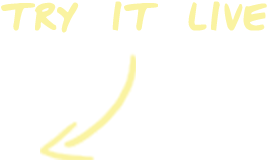
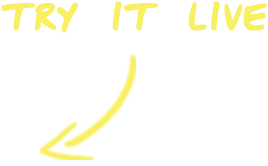
tweakz

diff --git a/index.html b/index.html
@@ -20,14 +20,14 @@
     <div class="hero-first pad center-xs start-md col-sm-12 col-md-6">
       <h1 id="logo"><a href="/">reapp</a></h1>
       <h2 class="hero-headline">Hybrid apps, fast</h2>
-      <p style="width:100%;">
-        Write once, run anywhere hybrid apps with React, Webpack and ES6.
+      <p>
+        Make beautiful hybrid apps that feel great with React, Webpack and ES6.
       </p>
 
       <div class="row justify-right">
         <div class="buttons">
           <a class="button prefer" href="/start.html"><span class="hide-xs">Get Started</span><span class="hide-sm">Start</span></a>
-          <a class="button secondary" href="https://github.com/reapp/reapp">Github</a>
+          <a class="github icon-mini" href="https://github.com/reapp/reapp">Github</a>
           <a class="twitter icon-mini hide-xs" href="https://twitter.com/reapp">Twitter</a>
         </div>
       </div>

diff --git a/pages/index.html b/pages/index.html
@@ -4,14 +4,14 @@
     <div class="hero-first pad center-xs start-md col-sm-12 col-md-6">
       <h1 id="logo"><a href="/">reapp</a></h1>
       <h2 class="hero-headline">Hybrid apps, fast</h2>
-      <p style="width:100%;">
-        Write once, run anywhere hybrid apps with React, Webpack and ES6.
+      <p>
+        Make beautiful hybrid apps that feel great with React, Webpack and ES6.
       </p>
 
       <div class="row justify-right">
         <div class="buttons">
           <a class="button prefer" href="/start.html"><span class="hide-xs">Get Started</span><span class="hide-sm">Start</span></a>
-          <a class="button secondary" href="https://github.com/reapp/reapp">Github</a>
+          <a class="github icon-mini" href="https://github.com/reapp/reapp">Github</a>
           <a class="twitter icon-mini hide-xs" href="https://twitter.com/reapp">Twitter</a>
         </div>
       </div>

diff --git a/assets/styles/landing.css b/assets/styles/landing.css
@@ -1,6 +1,6 @@
 .color-blue { color: #4abae6; }
 .color-green, h3 { color: #56be53; }
-.color-yellow, .install { color: #f8ee7b; }
+.color-yellow, .install { color: #f8f062; }
 .color-orange { color: #e15914; }
 .color-red { color: #d62746; }
 
@@ -211,7 +211,7 @@ h2 {
 }
 
 .hero p {
-  font-size: 1.8rem;
+  font-size: 1.6rem;
   line-height: 1.7em;
   margin-bottom: 2.5rem;
   padding-right: 2rem;
@@ -626,6 +626,11 @@ h4 {
 .twitter {
   background-image: url(/assets/images/twit.svg);
   margin-left: 1rem;
+}
+
+.github {
+  background-image: url(/assets/images/github.svg);
+  margin-left: 1.5rem;
 }
 
 .warn {
